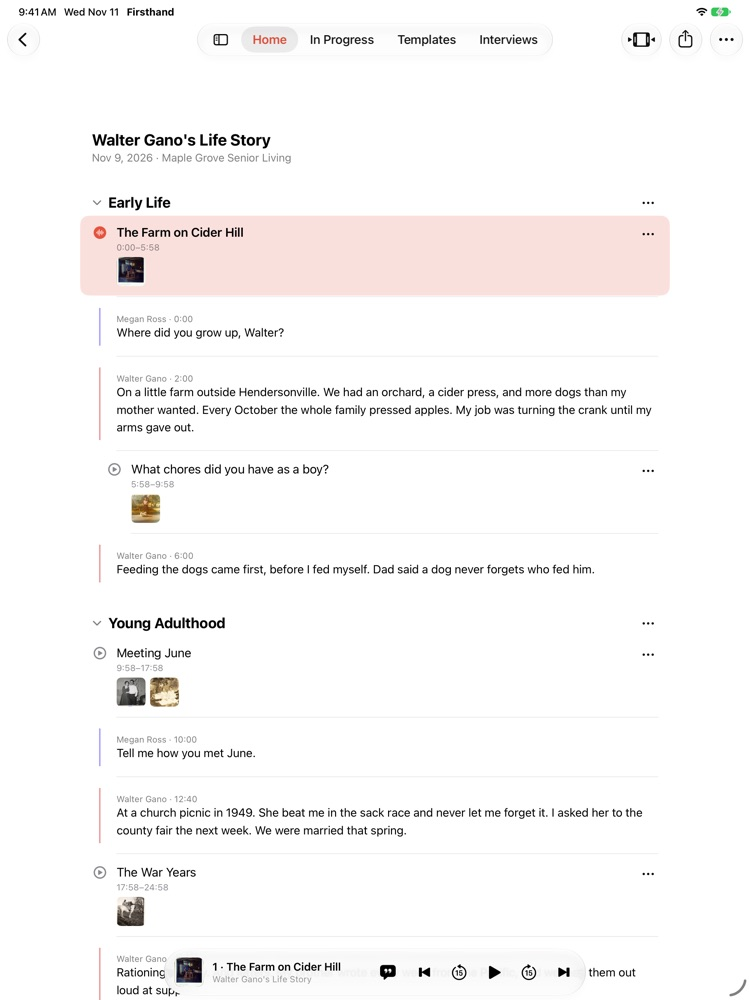
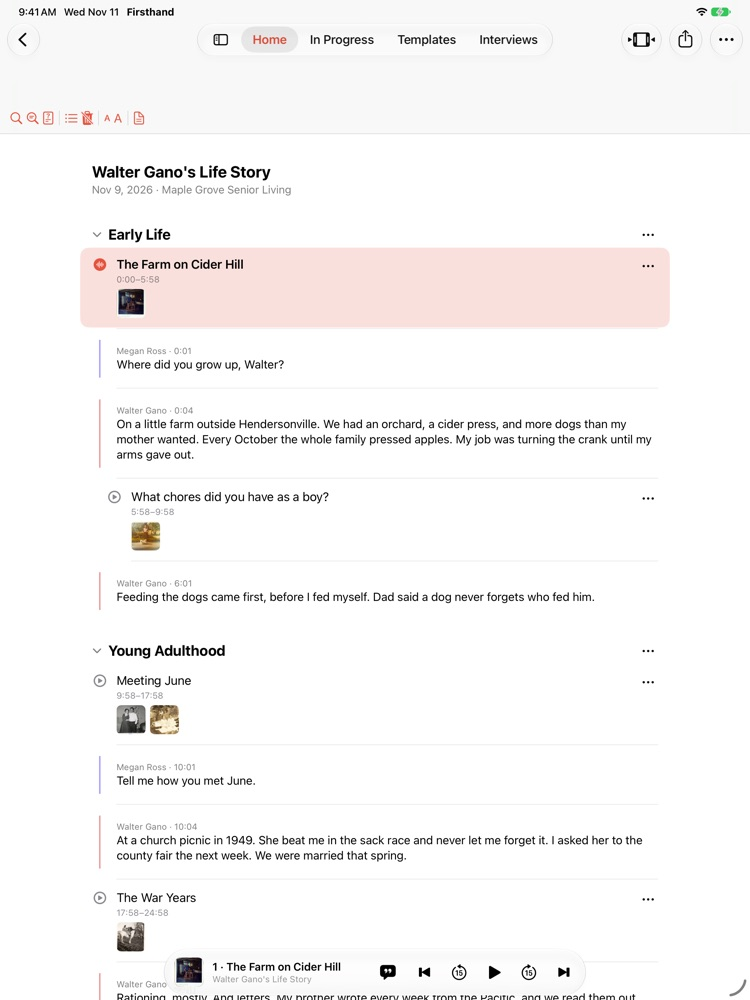
#233: How the App Works always shown, Timeline with callouts, light screenshots on the paper

Changed region(s): [[0.092, 0.093, 0.92, 1.0], [0.0307, 0.093, 0.1227, 0.124]]

diff --git a/public/facilities/index.html b/public/facilities/index.html
@@ -23,15 +23,22 @@
   .ways p { margin: 0; color: var(--text); }
   .points { padding-left: 1.2em; color: var(--text); }
   .points li { margin-bottom: 8px; }
-  .more { margin-top: 12px; } .more summary { cursor: pointer; color: var(--accent); font-weight: 600; min-height: 44px; display: flex; align-items: center; }
-  .ways li.card:has(.more[open]) { grid-column: 1 / -1; }
-  .appshots { display: grid; gap: 14px; grid-template-columns: repeat(auto-fit, minmax(180px, 1fr)); margin: 12px 0 8px; }
-  .appshots figure { margin: 0; } .appshots img { display: block; width: 100%; height: auto; border-radius: 12px; border: 1px solid var(--line); }
-  .appshots figcaption { font-size: .85rem; color: var(--muted); margin-top: 6px; }
   .shots { display: grid; gap: 16px; grid-template-columns: repeat(auto-fit, minmax(200px, 1fr)); list-style: none; padding: 0; }
   .shots img { display: block; width: 100%; height: auto; border-radius: 12px; border: 1px solid var(--line); margin-bottom: 10px; }
   .shots img.phone { max-width: 200px; margin: 0 auto 10px; border: 0; }
   .shots h3 { margin: 0 0 4px; font-size: 1.05rem; } .shots p { margin: 0; color: var(--text); font-size: .95rem; }
+  /* Screenshots on the paper, light only (#233) */
+  .callouts { margin: 8px 0 24px; }
+  .callouts .frame { position: relative; border-radius: 18px; overflow: hidden; border: 1px solid var(--line); box-shadow: 0 24px 60px rgba(60,40,20,.18); background: #fff; }
+  .callouts img { display: block; width: 100%; height: auto; }
+  .pin { position: absolute; transform: translate(-50%, -50%); width: 30px; height: 30px; border-radius: 50%; background: var(--accent); color: #fff; font: 700 15px/30px -apple-system, system-ui, sans-serif; text-align: center; box-shadow: 0 0 0 4px rgba(255,255,255,.85), 0 4px 12px rgba(0,0,0,.25); }
+  .legend { list-style: none; padding: 0; margin: 16px 0 0; display: grid; gap: 8px 20px; grid-template-columns: repeat(auto-fit, minmax(260px, 1fr)); }
+  .legend li { display: flex; gap: 10px; align-items: baseline; color: var(--text); }
+  .legend .n { flex: none; width: 24px; height: 24px; border-radius: 50%; background: var(--accent); color: #fff; font-size: 13px; font-weight: 700; line-height: 24px; text-align: center; }
+  .appshots { display: grid; gap: 16px; grid-template-columns: repeat(auto-fit, minmax(200px, 1fr)); margin: 8px 0 20px; }
+  .appshots figure { margin: 0; } .appshots img { display: block; width: 100%; height: auto; border-radius: 14px; border: 1px solid var(--line); box-shadow: 0 14px 34px rgba(60,40,20,.14); }
+  .appshots figcaption { font-size: .9rem; color: var(--muted); margin-top: 8px; }
+  @media (max-width: 520px) { .pin { width: 22px; height: 22px; font-size: 12px; line-height: 22px; } }
 </style>
 </head>
 <body>
@@ -62,25 +69,31 @@
   <section aria-labelledby="ways">
     <h2 id="ways" class="serif">Two ways to run it.</h2>
     <ul class="ways">
-      <li class="card"><h3>Your team records</h3><p>We set your activities or life-enrichment staff up with the Firsthand app on an iPad and a pair of small microphones, train them in an afternoon, and support them as they go. Your community owns the program and the recordings.</p>
-        <details class="more"><summary>See How the App Works</summary>
-          <div class="appshots">
-            <figure><picture><source srcset="/images/app/template-dark.jpg" media="(prefers-color-scheme: dark)"><img src="/images/app/template-light.jpg" width="750" height="1000" loading="lazy" alt="The iPad app showing a question list grouped into Early Life, Young Adulthood, Work, Family and Reflections"></picture><figcaption>Your questions, grouped into stories.</figcaption></figure>
-            <figure><picture><source srcset="/images/app/interview-dark.jpg" media="(prefers-color-scheme: dark)"><img src="/images/app/interview-light.jpg" width="750" height="1000" loading="lazy" alt="The iPad app showing a finished interview: chapters with their photos and the transcript beneath each"></picture><figcaption>Every answer a chapter, with photos and transcript.</figcaption></figure>
-            <figure><picture><source srcset="/images/app/home-dark.jpg" media="(prefers-color-scheme: dark)"><img src="/images/app/home-light.jpg" width="750" height="1000" loading="lazy" alt="The iPad app home screen: templates to start an interview, and the recorded interviews"></picture><figcaption>Start an interview in one tap.</figcaption></figure>
-          </div>
-          <ul class="points">
-            <li><strong>Ready-made questions.</strong> A full personal-history list, grouped into stories from childhood to today. Staff skip, reorder or add their own; families can send questions ahead of time.</li>
-            <li><strong>One tap per question.</strong> The interviewer taps each question as they ask it, so every answer becomes its own chapter. No editing afterwards.</li>
-            <li><strong>Two voices, two tracks.</strong> Small clip-on microphones record the interviewer and the resident separately, so the resident&rsquo;s voice stays clear even in a busy room. The iPad&rsquo;s own mic works too.</li>
-            <li><strong>Pause and pick up later.</strong> Stop when the resident tires and resume another day; it all joins into one story.</li>
-            <li><strong>Transcripts on the iPad.</strong> Every word is written out on the device itself, with long pauses and filler words tidied automatically.</li>
-            <li><strong>Photos beside the moments.</strong> Add scanned photos to any chapter, from the iPad&rsquo;s camera or library.</li>
-            <li><strong>Publish in one step.</strong> A private story page for the family, plus audio, a video slideshow and a printable booklet.</li>
-            <li><strong>Private by default.</strong> Recordings stay on your iPads and your own iCloud until someone chooses to publish one.</li>
-          </ul>
-        </details></li>
+      <li class="card"><h3>Your team records</h3><p>We set your activities or life-enrichment staff up with the Firsthand app on an iPad and a pair of small microphones, train them in an afternoon, and support them as they go. Your community owns the program and the recordings.</p></li>
       <li class="card"><h3>We record for you</h3><p>We come to your community on a schedule, sit down with residents one by one, scan their photos and deliver each story ready to share. Nothing for your staff to learn.</p></li>
+    </ul>
+  </section>
+
+  <section aria-labelledby="how">
+    <h2 id="how" class="serif">How the app works.</h2>
+    <p class="sub serif-line">Everything your team needs on one iPad.</p>
+    <figure class="callouts">
+      <div class="frame"><img src="/images/app/timeline-light.jpg" width="1400" height="1050" loading="lazy"
+        alt="The Firsthand app on an iPad in landscape: an interview's chapters with photos and transcript on the left, and each microphone's waveform on its own lane on the right"><span class="pin" style="left:33%;top:17%">1</span><span class="pin" style="left:31.5%;top:28%">2</span><span class="pin" style="left:34%;top:41%">3</span><span class="pin" style="left:86%;top:16%">4</span><span class="pin" style="left:86%;top:38%">5</span><span class="pin" style="left:84%;top:90%">6</span></div>
+      <ol class="legend"><li><span class="n">1</span>Sections and stories, as in your question list</li><li><span class="n">2</span>Every question its own chapter, with its photos</li><li><span class="n">3</span>The transcript by speaker, written on the iPad</li><li><span class="n">4</span>Chapters marked along the timeline</li><li><span class="n">5</span>Two microphones, two tracks: each voice on its own lane</li><li><span class="n">6</span>Play, skip back or ahead, change the speed</li></ol>
+    </figure>
+    <div class="appshots">
+      <figure><img src="/images/app/template-light.jpg" width="750" height="1000" loading="lazy" alt="A question list grouped into Early Life, Young Adulthood, Work, Family and Reflections"><figcaption>Your questions, grouped into stories. Skip, reorder or add your own.</figcaption></figure>
+      <figure><img src="/images/app/interview-light.jpg" width="750" height="1000" loading="lazy" alt="A finished interview: chapters with their photos and the transcript beneath each"><figcaption>Every answer a chapter, with photos and transcript.</figcaption></figure>
+      <figure><img src="/images/app/home-light.jpg" width="750" height="1000" loading="lazy" alt="The home screen: templates to start an interview, and the recorded interviews"><figcaption>Start an interview in one tap.</figcaption></figure>
+    </div>
+    <ul class="points">
+      <li><strong>One tap per question.</strong> The interviewer taps each question as they ask it, so every answer becomes its own chapter. No editing afterwards.</li>
+      <li><strong>Two voices, two tracks.</strong> Small clip-on microphones record the interviewer and the resident separately, so the resident&rsquo;s voice stays clear even in a busy room. The iPad&rsquo;s own mic works too.</li>
+      <li><strong>Pause and pick up later.</strong> Stop when the resident tires and resume another day; it all joins into one story.</li>
+      <li><strong>Transcripts on the iPad.</strong> Every word is written out on the device itself, with long pauses and filler words tidied automatically.</li>
+      <li><strong>Publish in one step.</strong> A private story page for the family, plus audio, a video slideshow and a printable booklet.</li>
+      <li><strong>Private by default.</strong> Recordings stay on your iPads and your own iCloud until someone chooses to publish one.</li>
     </ul>
   </section>
 
